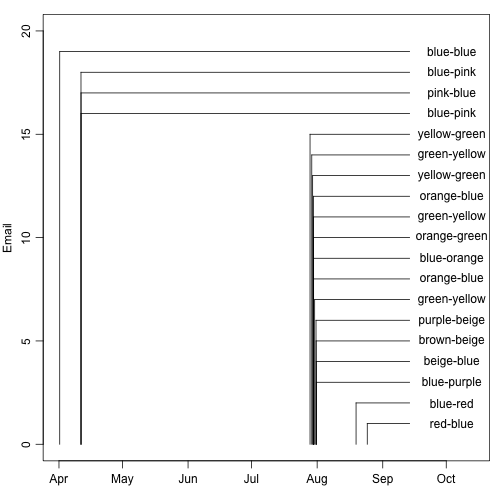
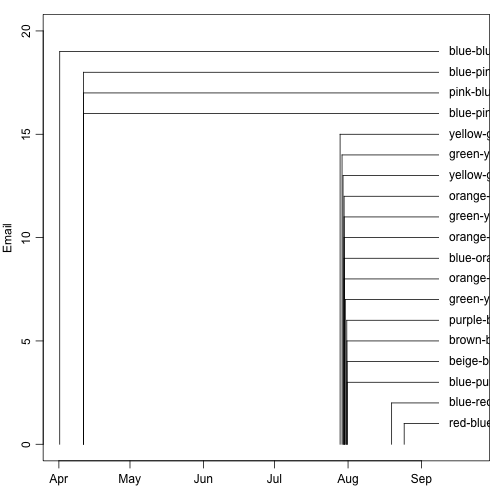
.

diff --git a/_posts/2015-08-25-email-graphs.md b/_posts/2015-08-25-email-graphs.md
@@ -55,12 +55,12 @@ to <- d$V3[o]
 n <- length(from)
 day <- 86400
 par(mar=c(3, 3, 1, 1), mgp=c(2, 0.7, 0))
-plot(t, 1:n, type='n', xlab="", ylab="Email",
-            xlim=c(min(t), max(t)+50*day),
-            ylim=c(0, n+1))
-tl <- max(t) + 20*day
+timeSpan <- as.numeric(max(t)) - as.numeric(min(t))
+space <- 0.2 # adjust as necessary
+plot(t, 1:n, type='n', xlab="", ylab="Email", xlim=c(min(t), max(t)+space*timeSpan), ylim=c(0, n+1))
+tl <- max(t) + 0.5 * space * timeSpan
 for (i in 1:n) {
-    text(tl+20*day, i, paste(from[i], "-", to[i], sep=""))
+    text(tl + 0.05 * space * timeSpan, i, paste(from[i], "-", to[i], sep=""), pos=4)
     lines(c(tl, t[i]), rep(i, 2))
     lines(c(t[i], t[i]), c(i, 0))
 }
@@ -77,5 +77,5 @@ The code has some hard-wired constants (20 days here, another 20 days there)
 and this would probably be better expressed as a fraction of the total time
 range, taking into account the maximum length of the text items.  No pretence
 at elegance is being made here; the point is just to present a rough framework
-that readers could modify to suite their needs.  I suppose I could put this in
-my ``plan`` package...
+that readers could modify to suite their needs.  I suppose I could clean this
+up and put it in my [plan package](https://github.com/dankelley/plan).
